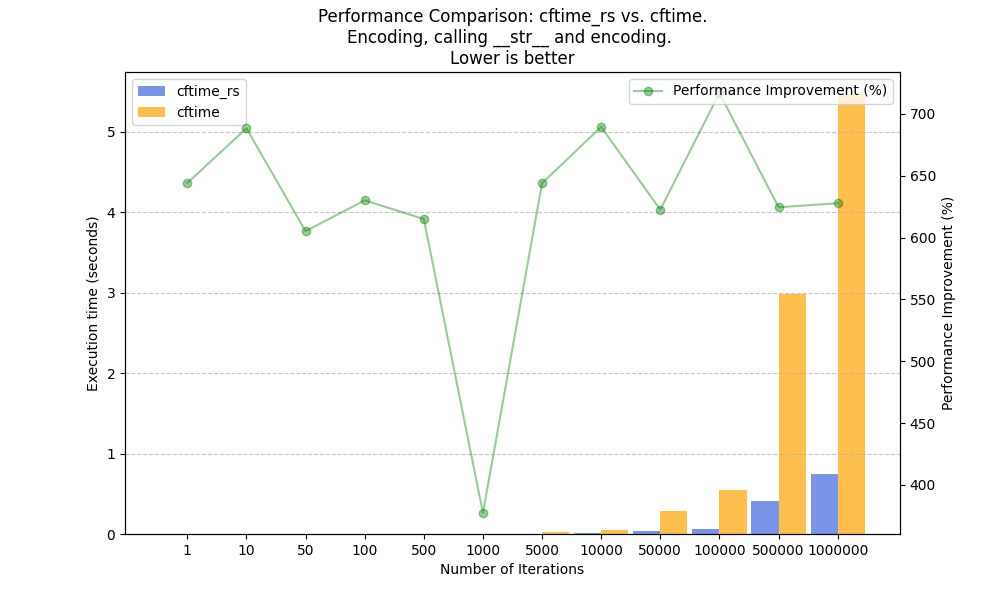
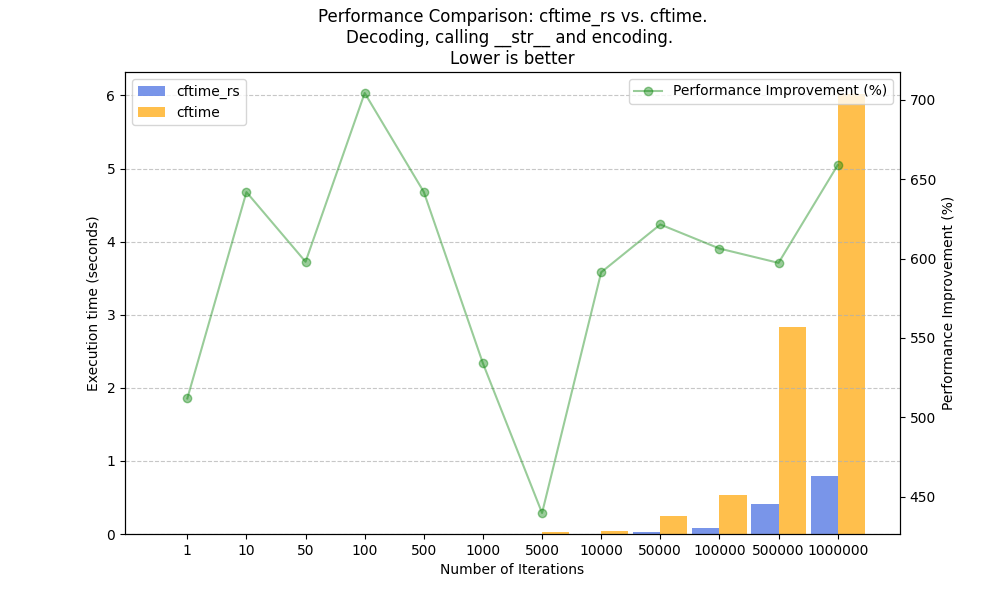
fix: typo in matplotlib title

diff --git a/benchmark/cf_time_comparison.py b/benchmark/cf_time_comparison.py
@@ -175,20 +175,20 @@ if __name__ == "__main__":
     performance_comparison_chart(
         cftime_rs_times,
         cftime_times,
-        title="Performance Comparison: cftime_rs vs. cftime.\nEncoding, calling __str__ and encoding. \nLower is better",
+        title="Performance Comparison: cftime_rs vs. cftime.\nDecoding, calling __str__ and encoding. \nLower is better",
         output_file="performance_comparison_with_str.png",
     )
     cftime_rs_times, cftime_times = get_data_without_str()
     performance_comparison_chart(
         cftime_rs_times,
         cftime_times,
-        title="Performance Comparison: cftime_rs vs. cftime./nEncoding and encoding. \nLower is better",
+        title="Performance Comparison: cftime_rs vs. cftime./Decoding and encoding. \nLower is better",
         output_file="performance_comparison_without_str.png",
     )
     cftime_rs_times, cftime_times = get_data_pydatetime_without_str()
     performance_comparison_chart(
         cftime_rs_times,
         cftime_times,
-        title="Performance Comparison: cftime_rs vs. cftime.\nEncoding and encoding by using python datetime \nLower is better",
+        title="Performance Comparison: cftime_rs vs. cftime.\nDecoding and encoding by using python datetime \nLower is better",
         output_file="performance_comparison_pydatetime_without_str.png",
     )
